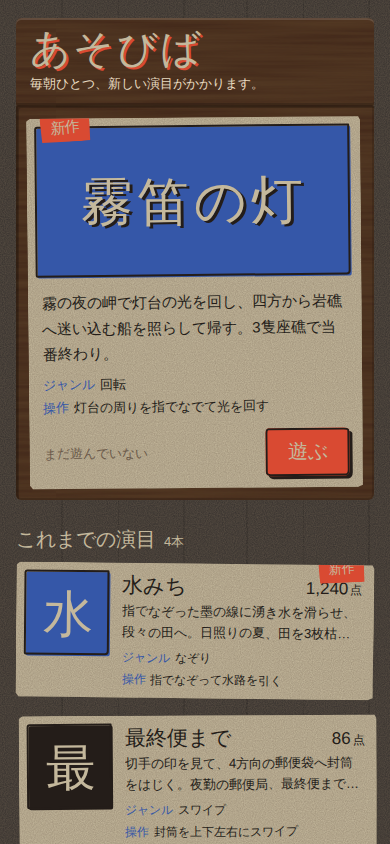
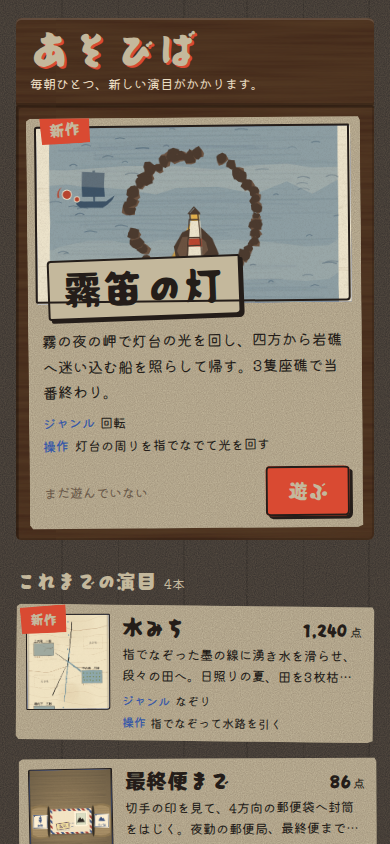
player: design concept (street kamishibai) with mockups
Claude-Session: https://claude.ai/code/session_01C9PKe73xnsQCPuibChcCfd

diff --git a/player/design/swatches.html b/player/design/swatches.html
@@ -1,0 +1,86 @@
+<!doctype html>
+<html lang="ja"><head><meta charset="utf-8">
+<meta name="viewport" content="width=device-width,initial-scale=1">
+<title>あそびば 見本帳</title>
+<link rel="preconnect" href="https://fonts.googleapis.com">
+<link href="https://fonts.googleapis.com/css2?family=Potta+One&family=Kiwi+Maru:wght@400;500&display=swap" rel="stylesheet">
+<link rel="stylesheet" href="tokens.css">
+<style>
+.sheet{max-width:1180px;margin:0 auto;padding:28px 40px 40px}
+.board{background:var(--boru);background-image:var(--grain);padding:22px 26px 26px;box-shadow:0 3px 0 var(--boru-edge);margin-bottom:22px;
+  clip-path:polygon(0 3px,5px 0,calc(100% - 3px) 1px,100% 6px,calc(100% - 1px) calc(100% - 2px),calc(100% - 7px) 100%,3px calc(100% - 1px),0 calc(100% - 5px))}
+h1{font-family:var(--head);font-weight:400;font-size:44px;margin:0 0 4px;color:var(--boru);text-shadow:2px 2px 0 var(--shu)}
+.lead{margin:0 0 20px;color:var(--sumi);font-size:15px}
+h2{font-family:var(--head);font-weight:400;font-size:22px;margin:0 0 14px}
+.chips{display:grid;grid-template-columns:repeat(6,1fr);gap:14px}
+.chip .c{height:92px;border:2px solid var(--sumi);border-radius:3px 1px 4px 2px;position:relative}
+.chip .c::after{content:"";position:absolute;inset:3px -4px -4px 3px;border:2px solid var(--sumi);opacity:.25;border-radius:2px 4px 1px 3px}
+.chip b{display:block;margin-top:10px;font-weight:500;font-size:15px}
+.chip span{display:block;font-size:13px;line-height:1.5;font-variant-numeric:tabular-nums}
+.shapes{display:flex;gap:30px;align-items:flex-end;flex-wrap:wrap}
+.shapes figure{margin:0;display:flex;flex-direction:column;align-items:flex-start;gap:8px}
+.shapes figcaption{font-size:13px}
+.play{font-family:var(--head);font-size:20px;color:var(--boru);background:var(--shu);border:0;padding:10px 22px 11px;border-radius:3px 6px 4px 5px/5px 3px 6px 4px;box-shadow:inset 0 0 0 2px var(--sumi),3px 3px 0 var(--sumi)}
+.play.down{transform:translate(3px,3px);box-shadow:inset 0 0 0 2px var(--sumi)}
+.new{font-family:var(--head);font-size:15px;color:var(--boru);background:var(--shu);padding:4px 10px 5px;transform:rotate(-4deg);clip-path:polygon(0 1px,100% 0,98% 100%,2% 96%)}
+.daiji{font-family:var(--head);font-size:34px;line-height:1;color:var(--sumi);background:var(--boru);padding:8px 14px 10px;transform:rotate(-1.5deg);box-shadow:3px 3px 0 var(--sumi);border:2.5px solid var(--sumi);border-radius:4px 2px 5px 3px}
+.back{font-family:var(--body);font-weight:500;font-size:15px;color:var(--sumi);background:var(--boru);border:0;padding:7px 12px 8px 10px;border-radius:3px 5px 4px 2px/4px 3px 5px 3px;box-shadow:2px 2px 0 var(--sumi);outline:2px solid var(--sumi)}
+.mini{width:150px;height:96px;background:var(--gunjo);border:1.5px solid var(--sumi);transform:rotate(-.8deg)}
+.doorpair{display:flex;gap:4px;height:120px}
+.doorpair i{width:60px;box-shadow:inset 0 0 0 2px #0003;position:relative}
+.doorpair i::before{content:"";position:absolute;inset:10px 9px;border:2px solid #0003}
+.doorpair i:first-child{transform:perspective(300px) rotateY(40deg);transform-origin:right}
+.doorpair i:last-child{transform:perspective(300px) rotateY(-40deg);transform-origin:left}
+.type{display:grid;grid-template-columns:1fr 1fr;gap:26px}
+.type .big{font-family:var(--head);font-size:56px;line-height:1.1;margin:4px 0}
+.type .mid{font-family:var(--head);font-size:24px;margin:0}
+.type .body{font-size:15px;line-height:1.75;margin:4px 0}
+.type small{font-size:13px;display:block}
+.num{font-family:var(--head);font-size:30px;font-variant-numeric:tabular-nums}
+.dark{display:grid;grid-template-columns:repeat(6,1fr);gap:14px}
+.dark .c{height:48px;border:2px solid #0006}
+</style></head>
+<body>
+<div class="sheet">
+  <h1>あそびば 見本帳</h1>
+  <p class="lead" style="color:var(--boru)">街角に来る紙芝居の舞台（自転車の荷台の木箱・観音開きの扉）と、泥絵具で描いたボール紙の絵札から借りる。</p>
+
+  <section class="board"><h2>色</h2>
+    <div class="chips">
+      <div class="chip"><div class="c" style="background:#aea596"></div><b>雨ざらしの板塀</b><span>#aea596<br>地（ページの背景）</span></div>
+      <div class="chip"><div class="c wood"></div><b>栗皮茶</b><span>#5a3820<br>舞台の木枠・扉・梁</span></div>
+      <div class="chip"><div class="c" style="background:#d8cdb3"></div><b>ボール紙</b><span>#d8cdb3<br>絵札の紙・題字の札</span></div>
+      <div class="chip"><div class="c" style="background:#284a9a"></div><b>群青</b><span>#284a9a<br>見出し語・絵の地</span></div>
+      <div class="chip"><div class="c" style="background:#d2402a"></div><b>朱</b><span>#d2402a<br>主役：新作の貼り紙と「遊ぶ」だけ</span></div>
+      <div class="chip"><div class="c" style="background:#2a221d"></div><b>墨</b><span>#2a221d<br>線・文字・ずらした縁</span></div>
+    </div>
+    <p style="margin:18px 0 8px;font-size:14px">夕暮れ（ダークモード）：板塀だけ暮れて、札は紙のまま少し沈む</p>
+    <div class="dark">
+      <div class="c" style="background:#35302d"></div><div class="c" style="background:#43291a"></div><div class="c" style="background:#c4b89c"></div>
+      <div class="c" style="background:#3557a8"></div><div class="c" style="background:#d94a32"></div><div class="c" style="background:#241d19"></div>
+    </div>
+  </section>
+
+  <section class="board"><h2>形</h2>
+    <div class="shapes">
+      <figure><div class="doorpair"><i class="wood"></i><i class="wood"></i></div><figcaption>観音開きの扉（選ぶと開く）</figcaption></figure>
+      <figure><span class="daiji">題字の札</span><figcaption>絵の上に重ねる題字</figcaption></figure>
+      <figure><button class="play">遊ぶ</button><figcaption>ふだん</figcaption></figure>
+      <figure><button class="play down">遊ぶ</button><figcaption>押したとき（影ごと沈む）</figcaption></figure>
+      <figure><span class="new">新作</span><figcaption>新作の貼り紙（最新1〜2本）</figcaption></figure>
+      <figure><div class="mini"></div><figcaption>束の札の小さな絵</figcaption></figure>
+      <figure><span class="back">‹ 演目にもどる</span><figcaption>戻るの木札</figcaption></figure>
+    </div>
+  </section>
+
+  <section class="board"><h2>文字</h2>
+    <div class="type">
+      <div><small>見出し・題字・点数：Potta One（泥絵具を筆で塗った看板文字）</small>
+        <p class="big">霧笛の灯</p><p class="mid">これまでの演目</p><p class="num">1,240<span style="font-size:15px">点</span></p></div>
+      <div><small>本文・説明・操作：Kiwi Maru（少し古風で柔らかい丸文字）</small>
+        <p class="body">霧の夜の岬で灯台の光を回し、四方から岩礁へ迷い込む船を照らして帰す。3隻座礁で当番終わり。</p>
+        <p class="body"><span style="color:var(--gunjo);font-weight:500">操作</span>　灯台の周りを指でなでて光を回す<br><span style="color:#6b5a4a">まだ遊んでいない</span></p></div>
+    </div>
+  </section>
+</div>
+</body></html>

diff --git a/player/design/list.html b/player/design/list.html
@@ -65,7 +65,7 @@
 .item .top{display:flex;justify-content:space-between;align-items:baseline;gap:8px}
 .item .best{font-size:12px;white-space:nowrap}
 .item .best b{font-size:17px}
-.item .new{top:-8px;right:10px;font-size:13px}
+.item .new{top:2px;left:4px;font-size:13px}
 .never{color:#6b5a4a}
 footer{margin-top:26px;font-size:13px;line-height:1.6;color:var(--sumi)}
 @media (prefers-color-scheme:dark){:root:not([data-theme="light"]) .list h2,:root:not([data-theme="light"]) footer{color:var(--boru)}}
@@ -87,6 +87,21 @@ footer{margin-top:26px;font-size:13px;line-height:1.6;color:var(--sumi)}
   .list ol{gap:14px}
   footer{grid-column:1/-1;text-align:left}
 }
+
+/* 絵札の表：ゲームの実際の画面を「絵」にして、題字を泥絵具で描いた札を重ねる */
+.front{position:relative;height:176px;background:var(--gunjo)}
+.front img{position:absolute;inset:0;width:100%;height:100%;object-fit:cover;object-position:50% 48%;display:block}
+.front::after{content:"";position:absolute;inset:-2px 1px 1px -2px;border:2.5px solid var(--sumi);border-radius:3px 1px 4px 2px;pointer-events:none}
+.daiji{position:absolute;left:10px;bottom:-14px;margin:0;font-family:var(--head);font-weight:400;font-size:38px;line-height:1;
+  color:var(--sumi);background:var(--boru);padding:8px 14px 10px;letter-spacing:.06em;transform:rotate(-1.5deg);
+  box-shadow:3px 3px 0 var(--sumi);border:2.5px solid var(--sumi);border-radius:4px 2px 5px 3px}
+.feature .body{padding-top:24px}
+/* 束の札：小さな絵（ゲーム画面）。札ごとに少し傾きが違う */
+.sketch{position:relative;height:96px;background:var(--gunjo);overflow:hidden;border:1.5px solid var(--sumi);border-radius:2px 1px 3px 1px;transform:rotate(-.8deg)}
+.sketch img{width:100%;height:100%;object-fit:cover;object-position:50% 50%;display:block;
+  filter:sepia(.18) saturate(.95)}
+.item{grid-template-columns:84px 1fr}
+@media (min-width:900px){.front{height:330px}.daiji{font-size:60px;bottom:-20px;left:18px}.feature .body{padding-top:30px}.item{grid-template-columns:96px 1fr}.sketch{height:112px}}
 </style></head>
 <body>
 <div class="page">
@@ -99,7 +114,7 @@ footer{margin-top:26px;font-size:13px;line-height:1.6;color:var(--sumi)}
     <div class="frame wood">
       <article class="card feature">
         <span class="new">新作</span>
-        <div class="paint"><span class="title">霧笛の灯</span></div>
+        <div class="front"><img src="../../arcade/games/005-lighthouse-keeper/qa/play.png" alt=""><h2 class="daiji">霧笛の灯</h2></div>
         <div class="body">
           <p class="pitch">霧の夜の岬で灯台の光を回し、四方から岩礁へ迷い込む船を照らして帰す。3隻座礁で当番終わり。</p>
           <dl class="meta"><div><dt>ジャンル</dt><dd>回転</dd></div><div><dt>操作</dt><dd>灯台の周りを指でなでて光を回す</dd></div></dl>
@@ -113,27 +128,26 @@ footer{margin-top:26px;font-size:13px;line-height:1.6;color:var(--sumi)}
     <h2 id="h-list">これまでの演目<small>4本</small></h2>
     <ol>
       <li class="card item"><span class="new">新作</span>
-        <div class="paint"><span class="kanji">水</span></div>
+        <div class="sketch"><img src="../../arcade/games/004-water-lines/qa/play.png" alt=""></div>
         <div><div class="top"><h3><a href="#">水みち</a></h3><span class="best"><b>1,240</b>点</span></div>
         <p class="pitch">指でなぞった墨の線に湧き水を滑らせ、段々の田へ。日照りの夏、田を3枚枯らすまでの水番。</p>
         <dl class="meta"><div><dt>ジャンル</dt><dd>なぞり</dd></div><div><dt>操作</dt><dd>指でなぞって水路を引く</dd></div></dl></div></li>
       <li class="card item">
-        <div class="paint"><span class="kanji">最</span></div>
+        <div class="sketch"><img src="../../arcade/games/003-mail-sorter/qa/play.png" alt=""></div>
         <div><div class="top"><h3><a href="#">最終便まで</a></h3><span class="best"><b>86</b>点</span></div>
         <p class="pitch">切手の印を見て、4方向の郵便袋へ封筒をはじく。夜勤の郵便局、最終便までの2分間。</p>
         <dl class="meta"><div><dt>ジャンル</dt><dd>スワイプ</dd></div><div><dt>操作</dt><dd>封筒を上下左右にスワイプ</dd></div></dl></div></li>
       <li class="card item">
-        <div class="paint"><span class="kanji">凧</span></div>
+        <div class="sketch"><img src="../../arcade/games/002-kite-wind/qa/play.png" alt=""></div>
         <div><div class="top"><h3><a href="#">雀凧</a></h3><span class="best never">まだ遊んでいない</span></div>
         <p class="pitch">押すと糸を巻き、離すと糸が出る。指ひとつで雀の凧を風の帯に乗せ、冬空をどこまでも高く。</p>
         <dl class="meta"><div><dt>ジャンル</dt><dd>ワンボタン</dd></div><div><dt>操作</dt><dd>長押しで糸を巻く／離すと出す</dd></div></dl></div></li>
       <li class="card item">
-        <div class="paint"><span class="kanji">蓮</span></div>
+        <div class="sketch"><img src="../../arcade/games/001-bloom-chain/qa/play.png" alt=""></div>
         <div><div class="top"><h3><a href="#">蓮ひらく</a></h3><span class="best"><b>412</b>点</span></div>
         <p class="pitch">池に一度だけ触れて蓮をひらく。浮き葉が次々に咲き、緑青の水面が花でうまっていく。</p>
         <dl class="meta"><div><dt>ジャンル</dt><dd>連鎖パズル</dd></div><div><dt>操作</dt><dd>タップ／クリックで蓮をひらく</dd></div></dl></div></li>
     </ol>
   </section>
-  <footer>遊び終わったら、上の「演目にもどる」かブラウザの戻るでここへ。</footer>
 </div>
 </body></html>

diff --git a/player/design/play.html b/player/design/play.html
@@ -1,0 +1,43 @@
+<!doctype html>
+<html lang="ja"><head><meta charset="utf-8">
+<meta name="viewport" content="width=device-width,initial-scale=1">
+<title>あそびば 上演中</title>
+<link rel="preconnect" href="https://fonts.googleapis.com">
+<link href="https://fonts.googleapis.com/css2?family=Potta+One&family=Kiwi+Maru:wght@400;500&display=swap" rel="stylesheet">
+<link rel="stylesheet" href="tokens.css">
+<style>
+html,body{height:100%}
+body{overflow:hidden}
+.theater{position:fixed;inset:0;display:flex;flex-direction:column}
+.beam{display:flex;align-items:center;gap:10px;padding:8px 10px;color:var(--boru);box-shadow:inset 0 -3px 0 #0003}
+.back{font-family:var(--body);font-weight:500;font-size:15px;color:var(--sumi);background:var(--boru);border:0;cursor:pointer;
+  padding:7px 12px 8px 10px;border-radius:3px 5px 4px 2px/4px 3px 5px 3px;box-shadow:2px 2px 0 var(--sumi);display:flex;align-items:center;gap:6px}
+.back svg{width:16px;height:16px}
+.back:active{transform:translate(2px,2px);box-shadow:none}
+.back:focus-visible{outline:3px solid var(--shu);outline-offset:3px}
+.beam h1{margin:0 0 0 auto;font-family:var(--head);font-weight:400;font-size:20px;line-height:1;letter-spacing:.05em;text-shadow:2px 2px 0 var(--shu);
+  white-space:nowrap;overflow:hidden;text-overflow:ellipsis}
+.window{position:relative;flex:1;padding:0 6px 6px;display:flex}
+.window iframe{flex:1;border:0;display:block;width:100%;height:100%;background:var(--boru);box-shadow:0 0 0 2px var(--sumi)}
+.door{display:none}
+@media (min-width:900px){
+  .theater{position:fixed;inset:24px auto 24px 50%;transform:translateX(-50%);width:min(980px,calc(100vw - 260px))}
+  .beam{padding:10px 16px;border-radius:5px 7px 0 0/6px 4px 0 0}
+  .beam h1{font-size:30px}
+  .window{padding:0 14px 14px;border-radius:0 0 6px 5px}
+  .door{display:block;position:absolute;top:58px;bottom:0;width:96px;box-shadow:inset 0 0 0 2px #0003}
+  .door::before{content:"";position:absolute;inset:16px 14px;border:2px solid #0003;border-radius:2px}
+  .door.l{left:-94px;transform:perspective(600px) rotateY(55deg);transform-origin:right}
+  .door.r{right:-94px;transform:perspective(600px) rotateY(-55deg);transform-origin:left}
+}
+</style></head>
+<body>
+<div class="theater">
+  <div class="door l wood" aria-hidden="true"></div><div class="door r wood" aria-hidden="true"></div>
+  <header class="beam wood">
+    <button class="back" type="button"><svg viewBox="0 0 16 16" aria-hidden="true"><path d="M10.5 2.6 4.8 8.1l5.9 5.4" fill="none" stroke="currentColor" stroke-width="2.4" stroke-linecap="round" stroke-linejoin="round"/></svg>演目にもどる</button>
+    <h1>霧笛の灯</h1>
+  </header>
+  <div class="window wood"><iframe src="../../arcade/games/005-lighthouse-keeper/index.html" title="霧笛の灯"></iframe></div>
+</div>
+</body></html>

diff --git a/player/design/shoot.js b/player/design/shoot.js
@@ -1,6 +1,17 @@
 // 見本のスクショ: node player/design/shoot.js
 const { chromium } = require('/opt/node22/lib/node_modules/playwright');
 const path = require('path');
+const { execFileSync } = require('child_process');
+// Google Fonts は curl（プロキシ・CA 設定済み）で取って渡す。TLS 検証は切らない
+const fontRoute = async (route) => {
+  const url = route.request().url();
+  try {
+    const body = execFileSync('curl', ['-sSL', '--cacert', '/root/.ccr/ca-bundle.crt', '-A',
+      'Mozilla/5.0 (X11; Linux x86_64) AppleWebKit/537.36 Chrome/124 Safari/537.36', url], { maxBuffer: 1 << 26 });
+    const type = url.includes('googleapis') ? 'text/css' : 'font/woff2';
+    await route.fulfill({ status: 200, body, headers: { 'content-type': type, 'access-control-allow-origin': '*' } });
+  } catch (e) { await route.abort(); }
+};
 const dir = __dirname;
 const shots = [
   ['list.html', 390, 844, 'light', 'list-390.png'],
@@ -17,6 +28,7 @@ const shots = [
   for (const [f, w, h, scheme, out, full] of shots) {
     if (process.argv[2] && !f.startsWith(process.argv[2])) continue;
     const p = await b.newPage({ viewport: { width: w, height: h }, colorScheme: scheme, deviceScaleFactor: 1 });
+    await p.route(/fonts\.(googleapis|gstatic)\.com/, fontRoute);
     await p.goto('file://' + path.join(dir, f), { waitUntil: 'load' });
     await p.evaluate(() => document.fonts.ready);
     await p.waitForTimeout(1200);

diff --git a/player/design.md b/player/design.md
@@ -1,0 +1,111 @@
+# デザインコンセプト: あそびば（ミニゲームの遊び場 player）
+
+- 合格ライン: ミニゲーム・遊び場 8/10（「AIが作った感」スコア）
+- 状態: **審査中**（作った本人の自己審査まで。作った本人以外の事前審査はまだ）
+- 最終更新: 2026-10-05 / 担当: アートディレクター（サブエージェント）
+
+## 1. どの Core・Why に答える見た目か（product-layers）
+- Core「忙しい毎日から離れて、時間を忘れて没頭できる遊び」→ 開いた瞬間に「今日は何がかかっているか」が一目で分かり、押せばその場で幕が開く
+- Why「毎回ページを移るのが面倒／終わったら次が分からない／毎日増える楽しみ」→ 舞台にいちばん新しい1本、横に「これまでの演目」の束。遊び終えたら扉の外の束から次を選ぶ
+- 将来（M2〜M3）「街で住人に話しかけるとゲームが始まる」→ 紙芝居屋はもともと**街角に自転車で来て、子どもを集めて幕を開ける住人**。M1 の一覧はその舞台の正面、M2 では同じ舞台が街の一角に置かれ、紙芝居屋（と他の住人）に話しかけると同じ扉が開く
+
+## 2. 借りてくる物（実在の物・場所・技法）
+- 主に借りる物: **昭和20〜30年代の街頭紙芝居**。自転車の荷台に載せる木の舞台（観音開きの扉と上の梁）と、泥絵具で描いて上からニスを引いたボール紙の絵札。舞台の後ろは空き地の板塀
+- そこから借りるもの:
+  - 色: 栗皮色に焼けた舞台の木、雨ざらしの板塀の灰茶、ボール紙の生成り、泥絵具の群青と朱、絵の輪郭の墨
+  - 形: 舞台の「窓」に絵札がぴったり収まる比率、観音開きの扉、絵札の厚み（紙の層が見える縁）、絵の上に重ねて描く題字の札
+  - 質感: ボール紙のざらつき、木目、塗りと墨線のはみ出し
+  - 文字: 筆で塗った太い看板文字（題字）と、演じ手の台本のような柔らかな手書き風の本文
+  - 動き: 紙芝居の「抜き」（絵札を横へ引き抜いて次の場面を見せる）と、扉を開けて始める所作
+- 参考にする人の手の作品: 街頭紙芝居の手描き絵札（泥絵具・ニス仕上げ）、昭和の木工の屋台・舞台、空き地の板塀
+
+## 3. 形の言葉（シェイプランゲージ）
+- 基本の形は**横長の四角（絵札）と、それを囲む厚い木の枠（舞台）**。丸は使わない
+- 絵札: 角は少しだけ欠けた多角形（clip-path で四隅の欠け方を札ごとにずらす）。影はぼかさず、ボール紙の「厚み」として下に3pxのべた
+- 舞台: 上に梁（看板「あそびば」を描く場所）、左右に扉。扉は PC で開いた状態に見せる（スマホは幅が足りないので枠だけ）
+- 題字の札: 絵の左下に少し傾けて重ねる。ボール紙＋墨の太い縁＋墨のずらし影
+- ボタン: 「遊ぶ」は朱に墨の縁、ずらし影が付いた板。押すと影ごと沈む
+- シルエットの約束: 舞台（梁＋窓＋扉）の輪郭だけで「紙芝居」と分かること。将来の街の画面でも同じ輪郭で置く
+
+## 4. 色（名前つき 6色）
+| 名前（実在の色名） | hex | 役割 | 面積の目安 |
+|---|---|---|---|
+| 雨ざらしの板塀 | #aea596 | 地（背景。幅のそろわない縦板） | 45% |
+| 栗皮茶 | #5a3820 | 舞台の木枠・梁・扉（木目を重ねる） | 15% |
+| ボール紙 | #d8cdb3 | 絵札の紙・題字の札・戻るの木札 | 30% |
+| 群青 | #284a9a | 見出し語（ジャンル・操作）、絵が無いときの絵の地 | 3% |
+| 朱 | #d2402a | **主役**。新作の貼り紙と「遊ぶ」だけに使う | 2% |
+| 墨 | #2a221d | 文字・絵の輪郭・ずらし影 | 5% |
+
+- ダークモード（夕暮れの空き地）: 板塀 #35302d／栗皮 #43291a／ボール紙 #c4b89c／群青 #3557a8／朱 #d94a32／墨 #241d19。**札は紙のまま**少しだけ沈め、背景だけ暮れる（札の文字は墨のまま読める）
+- 絵札の「絵」は各ゲームの実際の画面（`arcade/games/<id>/qa/play.png`）を使う。ゲームごとの色はそこから自然に入るので、UI 側の色は増やさない
+
+## 5. 文字
+- 見出し・題字・点数: **Potta One**（筆で塗ったような太い看板文字。紙芝居の題字・駄菓子の看板と同じ匂い）
+- 本文・説明・操作: **Kiwi Maru**（少し古風で柔らかい丸文字。演じ手の台本の手書きに近い）
+- フォールバック: "Hiragino Maru Gothic ProN", "Yu Gothic", sans-serif。点数は `font-variant-numeric: tabular-nums`
+- これまでのミニゲーム（design-log 001〜005）と既存の伝言板ページ（Klee One／Zen Kaku Gothic New）のどれとも重ならない
+
+## 6. 質感と「人の手の跡」
+1. **塗りと墨線のずれ**: 絵の墨の縁を塗りから2pxずらして描く（泥絵具のはみ出し）。題字の札・ボタンもずらし影（強さ: はっきり）
+2. **札ごとに違う傾きと欠け**: 束の札は ±0.5° の範囲で1枚ずつ違う傾き、四隅の欠け方も違う（強さ: 気づくか気づかないか）
+3. **紙と木の質感**: ボール紙にざらつき（SVG のノイズを1枚、背景画像として使い回す）、舞台に横に流れる木目（強さ: 控えめ）
+4. 板塀の縦板は幅をそろえない
+
+## 7. 動き
+- 操作への返事（これが「印象に残す1点」）: **札を押すと、舞台の扉が観音開きに開き、絵札が横へ「抜かれて」その奥でゲームが始まる**（扉 0.35秒、抜き 0.25秒、合わせて0.6秒以内。`prefers-reduced-motion` では即切り替え）
+- 戻るとき: 扉が閉じて、遊んだ札が束に戻る（ベストが更新されていれば点数の数字だけ一度弾む）
+- 「遊ぶ」と戻るの木札は押すと影ごと沈む
+- 何もしていないときの飾りの動き: **なし**（舞台は静かに待つ）
+
+## 8. 使わないもの（この作品で避ける定番）
+- §2 で特に陥りやすいもの:
+  - 「全部同じ角丸カード＋薄い灰色の影」→ 束の札は同じ形が並ぶのが題材の真実なので、角丸ではなく欠けた多角形、影はぼかさないべたの厚み、傾きと欠けを札ごとに変える
+  - クリーム色の背景＋テラコッタ → 地は灰茶の板塀、紙は札にだけ使う。朱は鮮やかな朱（#d2402a）で、面積は2%まで
+  - 全大文字の見出し・「A · B · C」・末尾の「→」・等幅の小ラベル → ジャンルと操作は群青の語＋本文。戻るは先頭に手描きの「‹」の印だけ
+  - 「さあ、〜の世界へ」の類 → 梁の一言は「毎朝ひとつ、新しい演目がかかります。」（事実だけ）
+- 似てしまいそうな既存のもの: 既存の `arcade/index.html`（駅の伝言板・黒板・駅名標）→ 駅・黒板・チョーク・路線色を一切使わない。木の舞台と紙の札で、手触りを「黒板の緑」から「木と紙と泥絵具」に変える
+- 和柄（市松・麻の葉・波）の背景や、提灯・暖簾の「縁日」記号は使わない（和風の定番に寄るため）
+
+## 9. 見本（実装前に作る）
+- 一覧画面の1枚絵: `player/design/list-390.png`（スマホ縦 390x844）、`player/design/list-1280.png`（PC 1280x800）、ダーク版 `list-390-dark.png`・`list-1280-dark.png`（元: `player/design/list.html`）
+- 遊ぶ画面の1枚絵（実物のゲーム「霧笛の灯」を iframe で入れた状態）: `player/design/play-390.png`、`play-1280.png`、`play-1280-dark.png`（元: `player/design/play.html`）
+- 色・形・文字の見本帳: `player/design/swatches.png`（元: `player/design/swatches.html`）
+- 共通トークン: `player/design/tokens.css`。撮り直し: `node player/design/shoot.js [list|play|swatches]`（Google Fonts は curl 経由で取り込む。TLS 検証は切らない）
+
+### 画面の組み立て（M1）
+```
+スマホ（390）                          PC（1280）
+┌───────────────┐                     扉 ┌──────────────┐ 扉   これまでの演目 4本
+│梁: あそびば    │                    ╱  │梁: あそびば    │  ╲  ┌──────────────┐
+│ 毎朝ひとつ…    │                   │   ├──────────────┤   │ │絵│水みち 1,240点│
+├───────────────┤                   │   │ [ゲームの絵]   │   │ ├──────────────┤
+│[新作] ゲームの絵│                   │   │ [題字の札]     │   │ │絵│最終便まで 86点│
+│ [題字の札]     │                   │   │ 説明・ジャンル  │   │ ├──────────────┤
+│ 説明/ジャンル/操作│                 │   │ 操作  [遊ぶ]   │   │ │絵│雀凧 まだ…     │
+│ まだ遊んでいない [遊ぶ]│              ╲  └──────────────┘  ╱  └──────────────┘
+├───────────────┤
+│これまでの演目 4本│   遊ぶ画面: 梁に「‹ 演目にもどる」と題。窓いっぱいに iframe。
+│[絵] 題 点数     │   PC は扉が開いたまま左右に見える。スマホは枠だけ（6px）。
+│     説明2行/操作 │
+└───────────────┘
+```
+- 舞台に入るのは最新の1本（新作）。2本目の新作は束の先頭に「新作」の貼り紙付きで置く
+- 束の札の並びは新しい順。左寄せ。説明は2行で切る
+
+### 実装への申し送り（デザインに関わるもの）
+- ジャンルは catalog の `genre` の（）内があればそれ、無ければ全体（例: 「全方位の見張り・照らして守る（回転）」→「回転」）。操作は `controls` の最初の「（」か「。」の前まで
+- ベストスコアは各ゲームの localStorage のキー名がゲームごとに違う（`lk_best`・`wl-best` など）。player 側でキー名の対応表を持つ（catalog はバッチの持ち物なので触らない）
+- 絵は `qa/play.png` を object-fit: cover。画面の真ん中に見せ場が無いゲームのため、表示位置の上書き（対応表に `thumb_pos`）を持てるようにしておく
+- 戻る: 遊ぶ画面へ入るとき `history.pushState`、`popstate` で一覧へ（扉が閉じる動き）
+
+## 10. 事前審査
+- 審査者（作った本人以外）: **未実施**。実装前に別の審査者（監査役など）が見本と本書を §2 と照らして審査すること
+- 自己審査の予想スコア: 7.5〜8/10
+  - 良い所: 題字の札を重ねた絵札が舞台の窓に収まる姿と、PC で開いた扉が「紙芝居」とすぐ分かる。色・書体が既存の伝言板ページともミニゲーム5本とも重ならない
+  - 届かない恐れ: (1) スマホでは扉が見えず「木の枠＋カード」に寄る。扉が開く動きでしか紙芝居らしさが出ない (2) 束の札は横並びの情報が同じ形で繰り返すので、構成としては一覧の定番に近い
+- 自己批評で直したこと:
+  1. 初版は絵札の「絵」を群青の四角＋大きな漢字1字にしていた → アプリのアイコン並べ（定番）に見え、紙芝居でもなかった。**各ゲームの実際の画面を絵にして、題字の札を重ねる**形に変えた
+  2. 束の札の絵を鉛筆の下絵風（白黒・高コントラスト）にしたら、空が多いゲームで真っ白・郵便は真っ黒になり読めなかった → 色のまま、ニスの黄ばみ程度（sepia 0.18）に戻した
+  3. 札の右上に貼った新作の印が、札の欠けで切れて点数とぶつかった → 絵の左上に移した
+  4. 飾りを1つ取った: 一覧ページの下の「戻り方」の案内文（一覧には不要で、遊ぶ画面の戻るボタンと重複）。自転車の車輪を描く案も見送った
